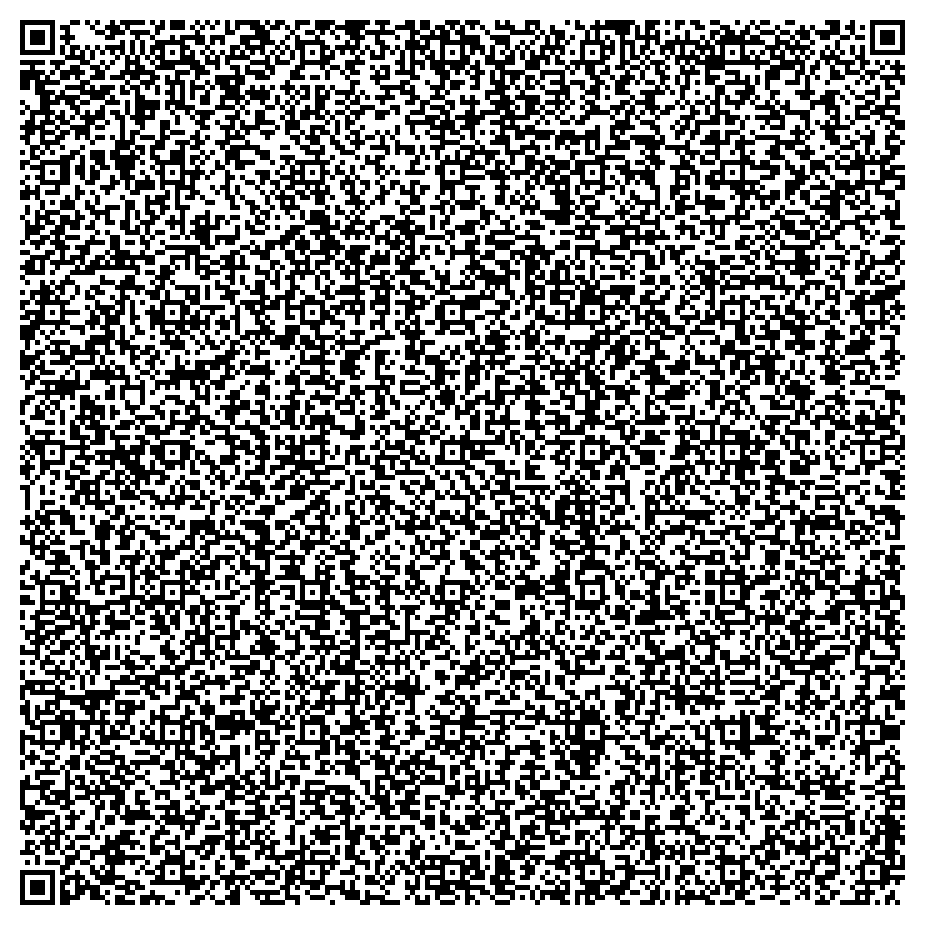
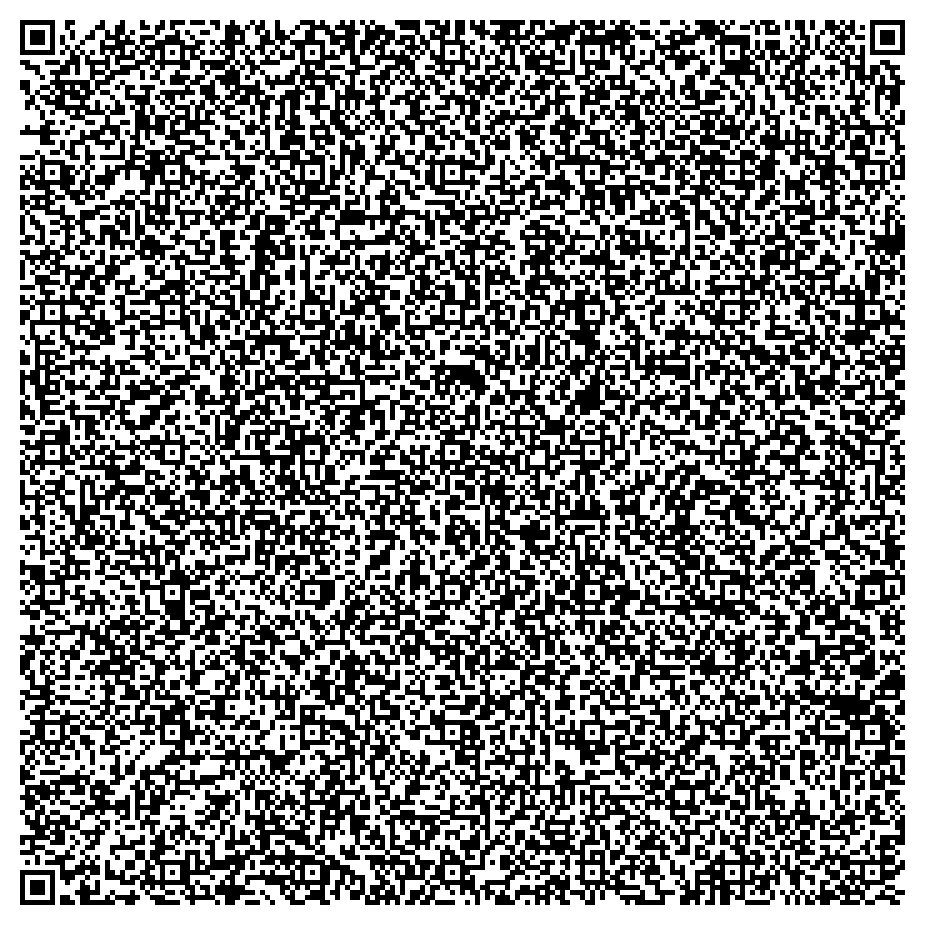
generic tests

diff --git a/scripts/fingerlink.py b/scripts/fingerlink.py
@@ -8,18 +8,20 @@ from datetime import datetime
 import cv2
 import json
 import numpy as np
+import math
+import segno
+
 from base64 import b64decode, b64encode
 from PIL import Image
 from io import BytesIO
 from pyzbar.pyzbar import decode
-
 from Crypto.PublicKey import RSA
 from Crypto.Cipher import AES, PKCS1_OAEP
 from Crypto.Util.Padding import pad, unpad
 from Crypto.Random import get_random_bytes
 
-import segno
-import math
+from utils.decorators import calculate_ram_usage, calculate_elapsed_time
+
 
 def open_image(src: str) -> np.ndarray:
     img = Image.open(src)
@@ -28,6 +30,7 @@ def open_image(src: str) -> np.ndarray:
 # TODO - Atualizar pra python3.7 pra poder utilizar @dataclass
 
 # @dataclass
+from filprofiler.api import profile
 
 
 class Minutia:
@@ -101,8 +104,8 @@ class QRCodeData:
 class TBD:
     def __init__(self, public_key:str, private_key:str) -> None:
         self.public_key = RSA.import_key(open(public_key).read())        
-        self.private_key = RSA.import_key(open(private_key).read())        
-
+        self.private_key = RSA.import_key(open(private_key).read())
+    
     def isBase64(string_to_check: str) -> bool:
         try:
             if isinstance(string_to_check, str):
@@ -192,8 +195,7 @@ class TBD:
         original_data = unpad(decrypted_data, AES.block_size)
 
         return original_data
-
-
+    
     def generate_qrcode(self, name: str, template: Union[str,bytes], template_type: str) -> bytes:
         timestamp = datetime.utcnow().timestamp()
         timestamp_as_string = str(timestamp).encode("utf-8")
@@ -219,6 +221,15 @@ class TBD:
         qrcode = segno.make(data_to_encode)
        
         return qrcode
+
+    @calculate_elapsed_time
+    def time_decorated_generate_qrcode(self, name: str, template: Union[str,bytes], template_type: str):
+        return self.generate_qrcode(name, template, template_type)
+
+    @calculate_ram_usage
+    def ram_decorated_generate_qrcode(self, name: str, template: Union[str,bytes], template_type: str):
+        return self.generate_qrcode(name, template, template_type)
+        
 
     def read_qrcode(self, qrcode: str) -> Tuple[str, bytes, bytes, bytes, str]:
         if TBD.isBase64(qrcode):
@@ -249,23 +260,45 @@ class TBD:
 
 
 if __name__ == '__main__':
+    import argparse
+    parser = argparse.ArgumentParser(description='Test the fingerlink.')
+    parser.add_argument('--minutiae', '-m', type=int,
+                    help='number of minutiae')
+
+    parser.add_argument('--type', '-t', help='template type')
+    parser.add_argument('--decorator', '-d', help='statistics decorator')
+    args = parser.parse_args()
+
+
     fingerlink = TBD(public_key='assets/public_key.pem', private_key='assets/private_key.pem')
 
     image_name = 'NIST4_F0001_01'
     template = fingerlink.extract_minutiae(
-        f'images/fingerprints/{image_name}.bmp', extractor=mindtct_numpy)
-    template = fingerlink.trunc_template(template, maxMinutia=100)
-    template_type = 'ISO'
+        f'images/fingerprints/{image_name}.bmp', extractor=fingerjet_numpy)
+    
+    
+    if args.minutiae > len(template.minutiae):
+        raise ValueError
 
-    qrcode = fingerlink.generate_qrcode(
-        name='Rhaniel Magalhães Xavier', template=template, template_type=template_type)
+    template = fingerlink.trunc_template(template, maxMinutia=args.minutiae)
+    # template=template.as_json()
+    template_type = args.type
+
+    if args.decorator == 'time':
+        qrcode = fingerlink.time_decorated_generate_qrcode(name='Rhaniel Magalhães Xavier', template=template, template_type=template_type)
+    elif args.decorator == 'ram':
+        qrcode = fingerlink.ram_decorated_generate_qrcode(name='Rhaniel Magalhães Xavier', template=template, template_type=template_type)
+    else:
+        qrcode = fingerlink.generate_qrcode(name='Rhaniel Magalhães Xavier', template=template, template_type=template_type)
+    # qrcode = profile(lambda:fingerlink.generate_qrcode(
+    #     name='Rhaniel Magalhães Xavier', template=template, template_type=template_type),'/tmp/result-30')
 
     qrcode.save(f'images/qrcodes/{image_name}_{template_type}_qrcode_v{qrcode.version}.png', scale=5)
-    user_data, encrypted_template, encrypted_key, iv, timestamp = fingerlink.read_qrcode(f'images/qrcodes/{image_name}_{template_type}_qrcode_v{qrcode.version}.png')
+    # user_data, encrypted_template, encrypted_key, iv, timestamp = fingerlink.read_qrcode(f'images/qrcodes/{image_name}_{template_type}_qrcode_v{qrcode.version}.png')
     
-    from utils.template_conversor import convertTemplateToISO
-    is_valid = fingerlink.validate_qrcode(f'images/qrcodes/{image_name}_{template_type}_qrcode_v{qrcode.version}.png', input_template=convertTemplateToISO(template))
-    print(f'is_valid: {is_valid}')
+    # from utils.template_conversor import convertTemplateToISO
+    # is_valid = fingerlink.validate_qrcode(f'images/qrcodes/{image_name}_{template_type}_qrcode_v{qrcode.version}.png', input_template=convertTemplateToISO(template))
+    # print(f'is_valid: {is_valid}')
     # import copy
 
     # template2 = copy.deepcopy(template)

diff --git a/scripts/demo.py b/scripts/demo.py
@@ -10,6 +10,17 @@ import wsq
 
 from io import BytesIO
 
+import psutil
+
+def calculate_ram_usage(func):
+    def wrapper(*args, **kwargs):
+        ram_usage = psutil.Process().memory_info().rss / (1024 * 1024)
+        result = func(*args, **kwargs)
+        print(psutil.Process().memory_info().rss / (1024 * 1024) - ram_usage)
+        return result
+    return wrapper
+
+@calculate_ram_usage
 def open_image(src: str) -> np.ndarray:
     img = Image.open(src)
     return np.asarray(img).copy()
@@ -69,6 +80,8 @@ def crop_roi(filename):
 
 # img2 = loadFileBase64('101_4.wsq')
 # t2 = fingerjet_numpy(cropped2, qualityThreshold=0, event_id='1', maxMinutia=100)
+
+
 
 img1 = open_image('bin.png')
 img2 = open_image('101_3.png')
